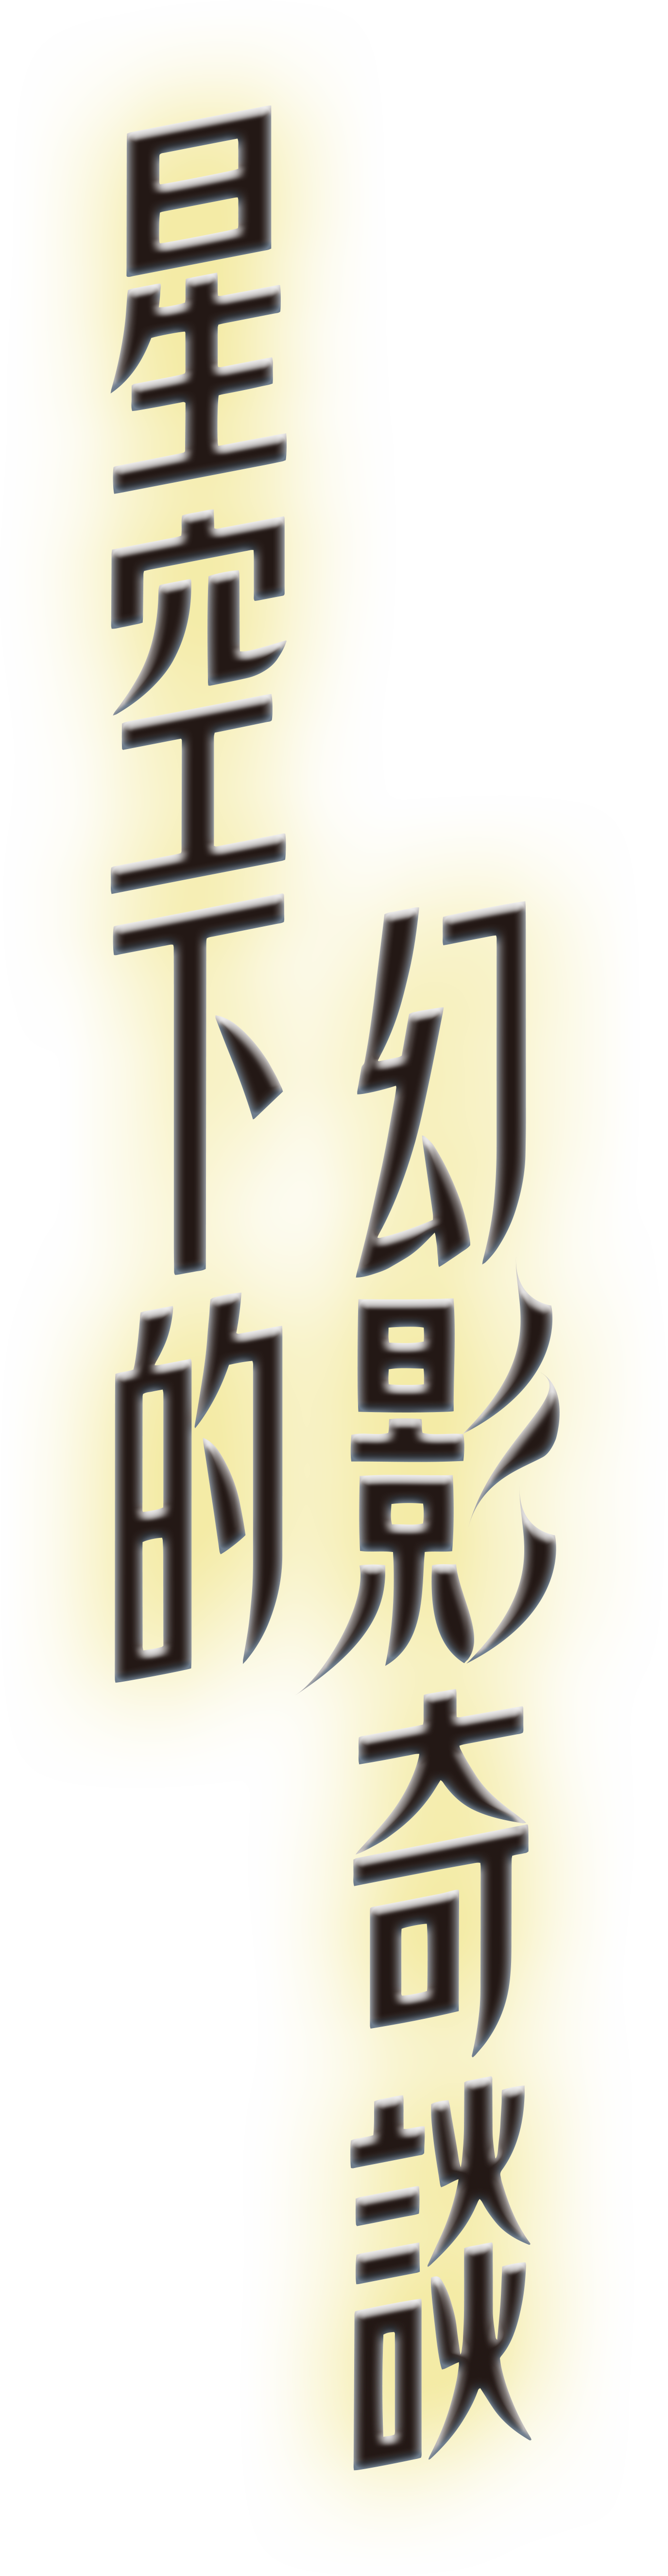
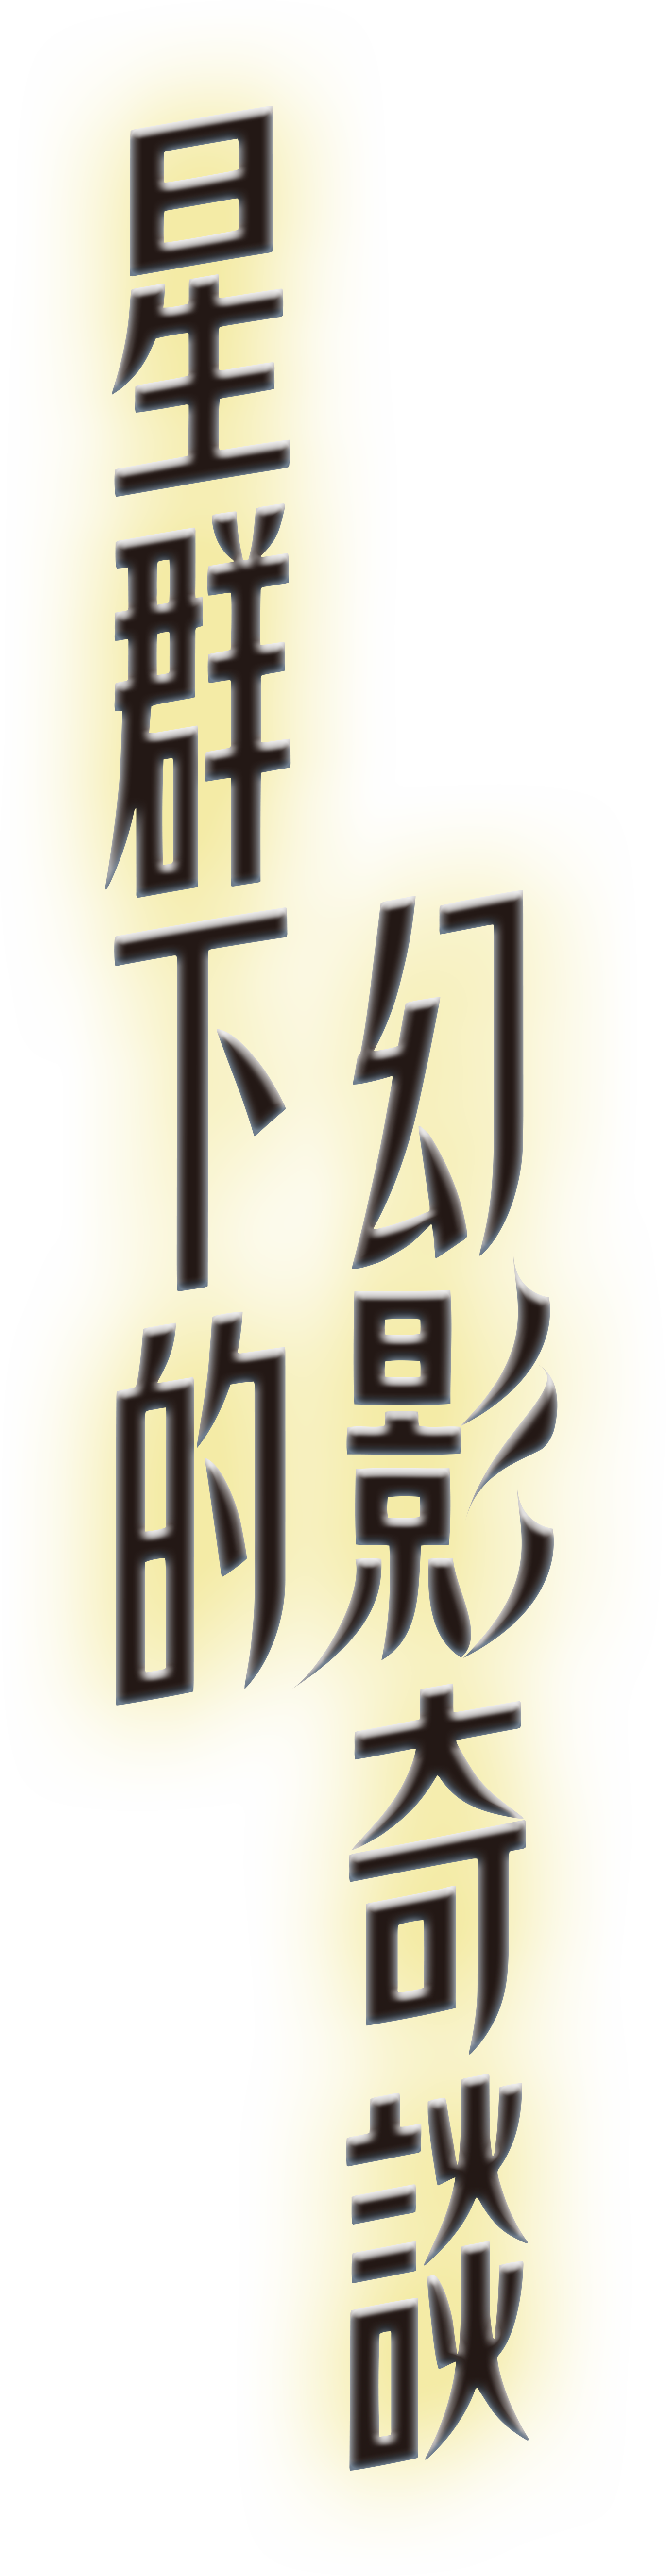
change new design

Changed region(s): [[0.1225, 0.0311, 0.4289, 0.6845], [0.4595, 0.3423, 0.8578, 0.9645], [0.7352, 0.8712, 0.7659, 0.9334]]

diff --git a/design_file/README.md b/design_file/README.md
@@ -3,14 +3,14 @@
 ### 數位使用
 - [音樂會宣傳主圖](https://chenhsuantu.github.io/K19/design_file/2026雄中_210x210cm.jpg)     
 <img src="https://chenhsuantu.github.io/K19/design_file/2026雄中_210x210cm.jpg" height="100px">
-- [OPENTIX 宣傳圖檔](https://chenhsuantu.github.io/K19/design_file/2026雄中校友_300x420px.png)     
-<img src="https://chenhsuantu.github.io/K19/design_file/2026雄中校友_300x420px.png" height="100px">
-- [數位大頭貼](https://chenhsuantu.github.io/K19/design_file/FB頭貼_900x900px.png)      
-<img src="https://chenhsuantu.github.io/K19/design_file/FB頭貼_900x900px.png" height="100px">
-- [數位banner](https://chenhsuantu.github.io/K19/design_file/FBbanner_1640x856.png)     
-<img src="https://chenhsuantu.github.io/K19/design_file/FBbanner_1640x856.png" height="100px">
-- [數位圖框](https://chenhsuantu.github.io/K19/design_file/bg_900x900px.png)     
-<img src="https://chenhsuantu.github.io/K19/design_file/bg_900x900px.png" height="100px">
+- [OPENTIX 宣傳圖檔](https://chenhsuantu.github.io/K19/design_file/2026雄中校友_300x420px.jpg)     
+<img src="https://chenhsuantu.github.io/K19/design_file/2026雄中校友_300x420px.jpg" height="100px">
+- [數位大頭貼](https://chenhsuantu.github.io/K19/design_file/FB頭貼_900x900px.jpg)      
+<img src="https://chenhsuantu.github.io/K19/design_file/FB頭貼_900x900px.jpg" height="100px">
+- [數位banner](https://chenhsuantu.github.io/K19/design_file/FBbanner_1640x856.jpg)     
+<img src="https://chenhsuantu.github.io/K19/design_file/FBbanner_1640x856.jpg" height="100px">
+- [數位圖框](https://chenhsuantu.github.io/K19/design_file/bg_900x900px.jpg)     
+<img src="https://chenhsuantu.github.io/K19/design_file/bg_900x900px.jpg" height="100px">
 - [素材圖檔](https://chenhsuantu.github.io/K19/design_file/png)
      
 